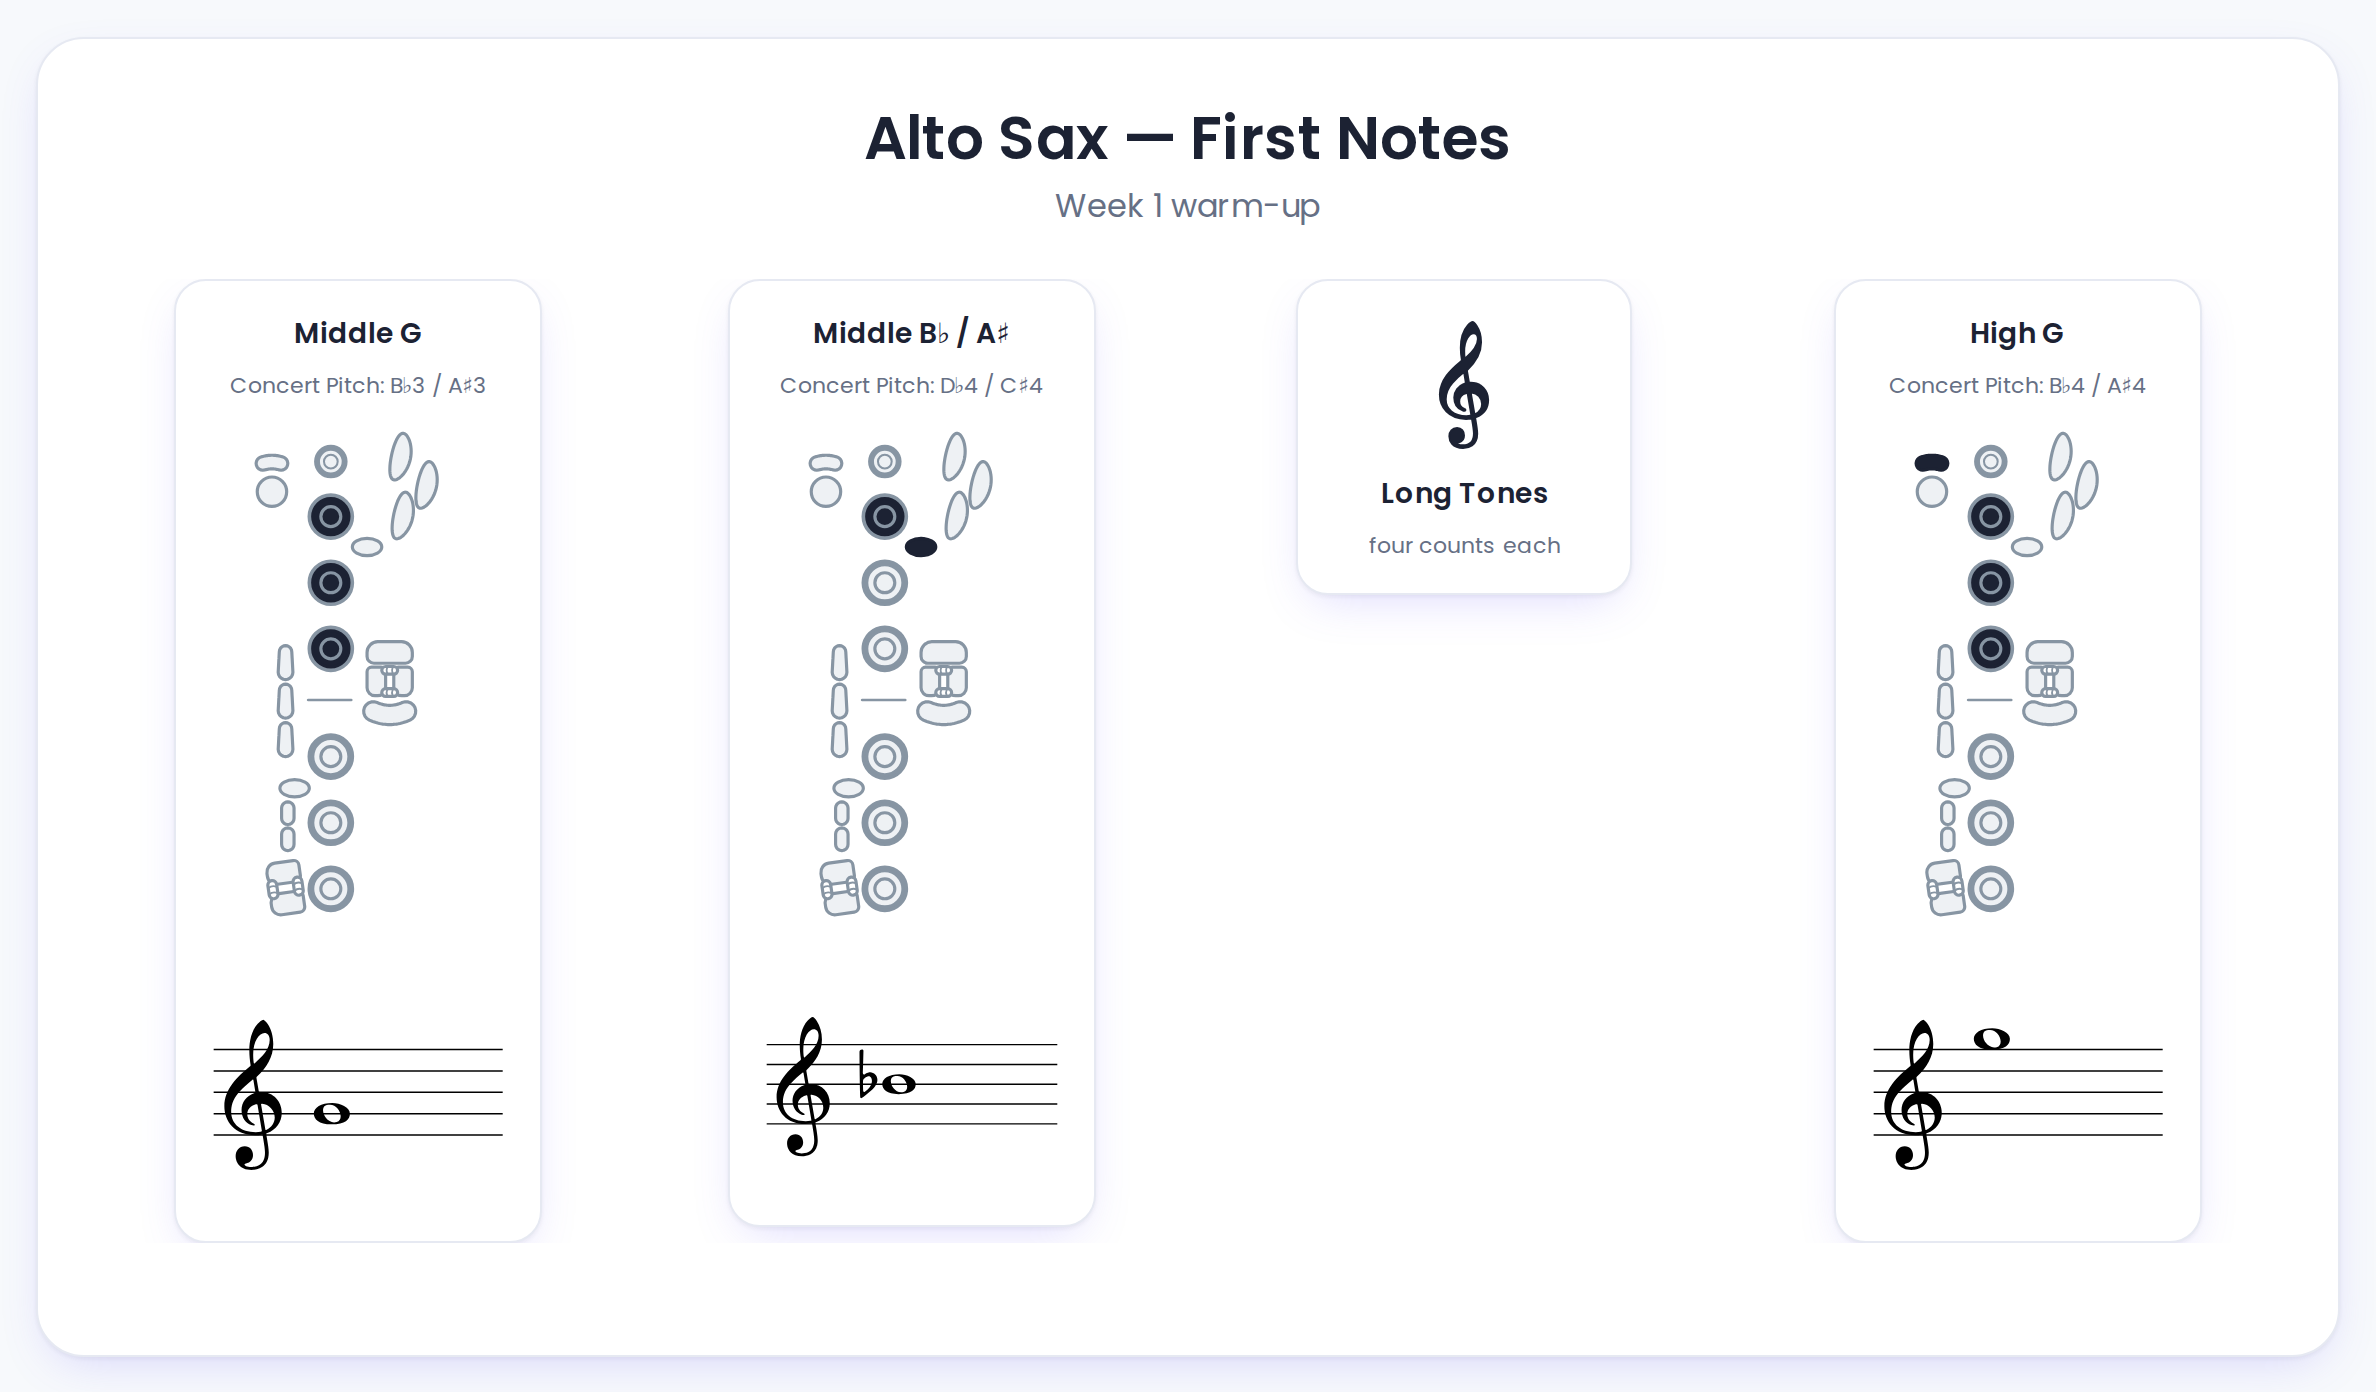
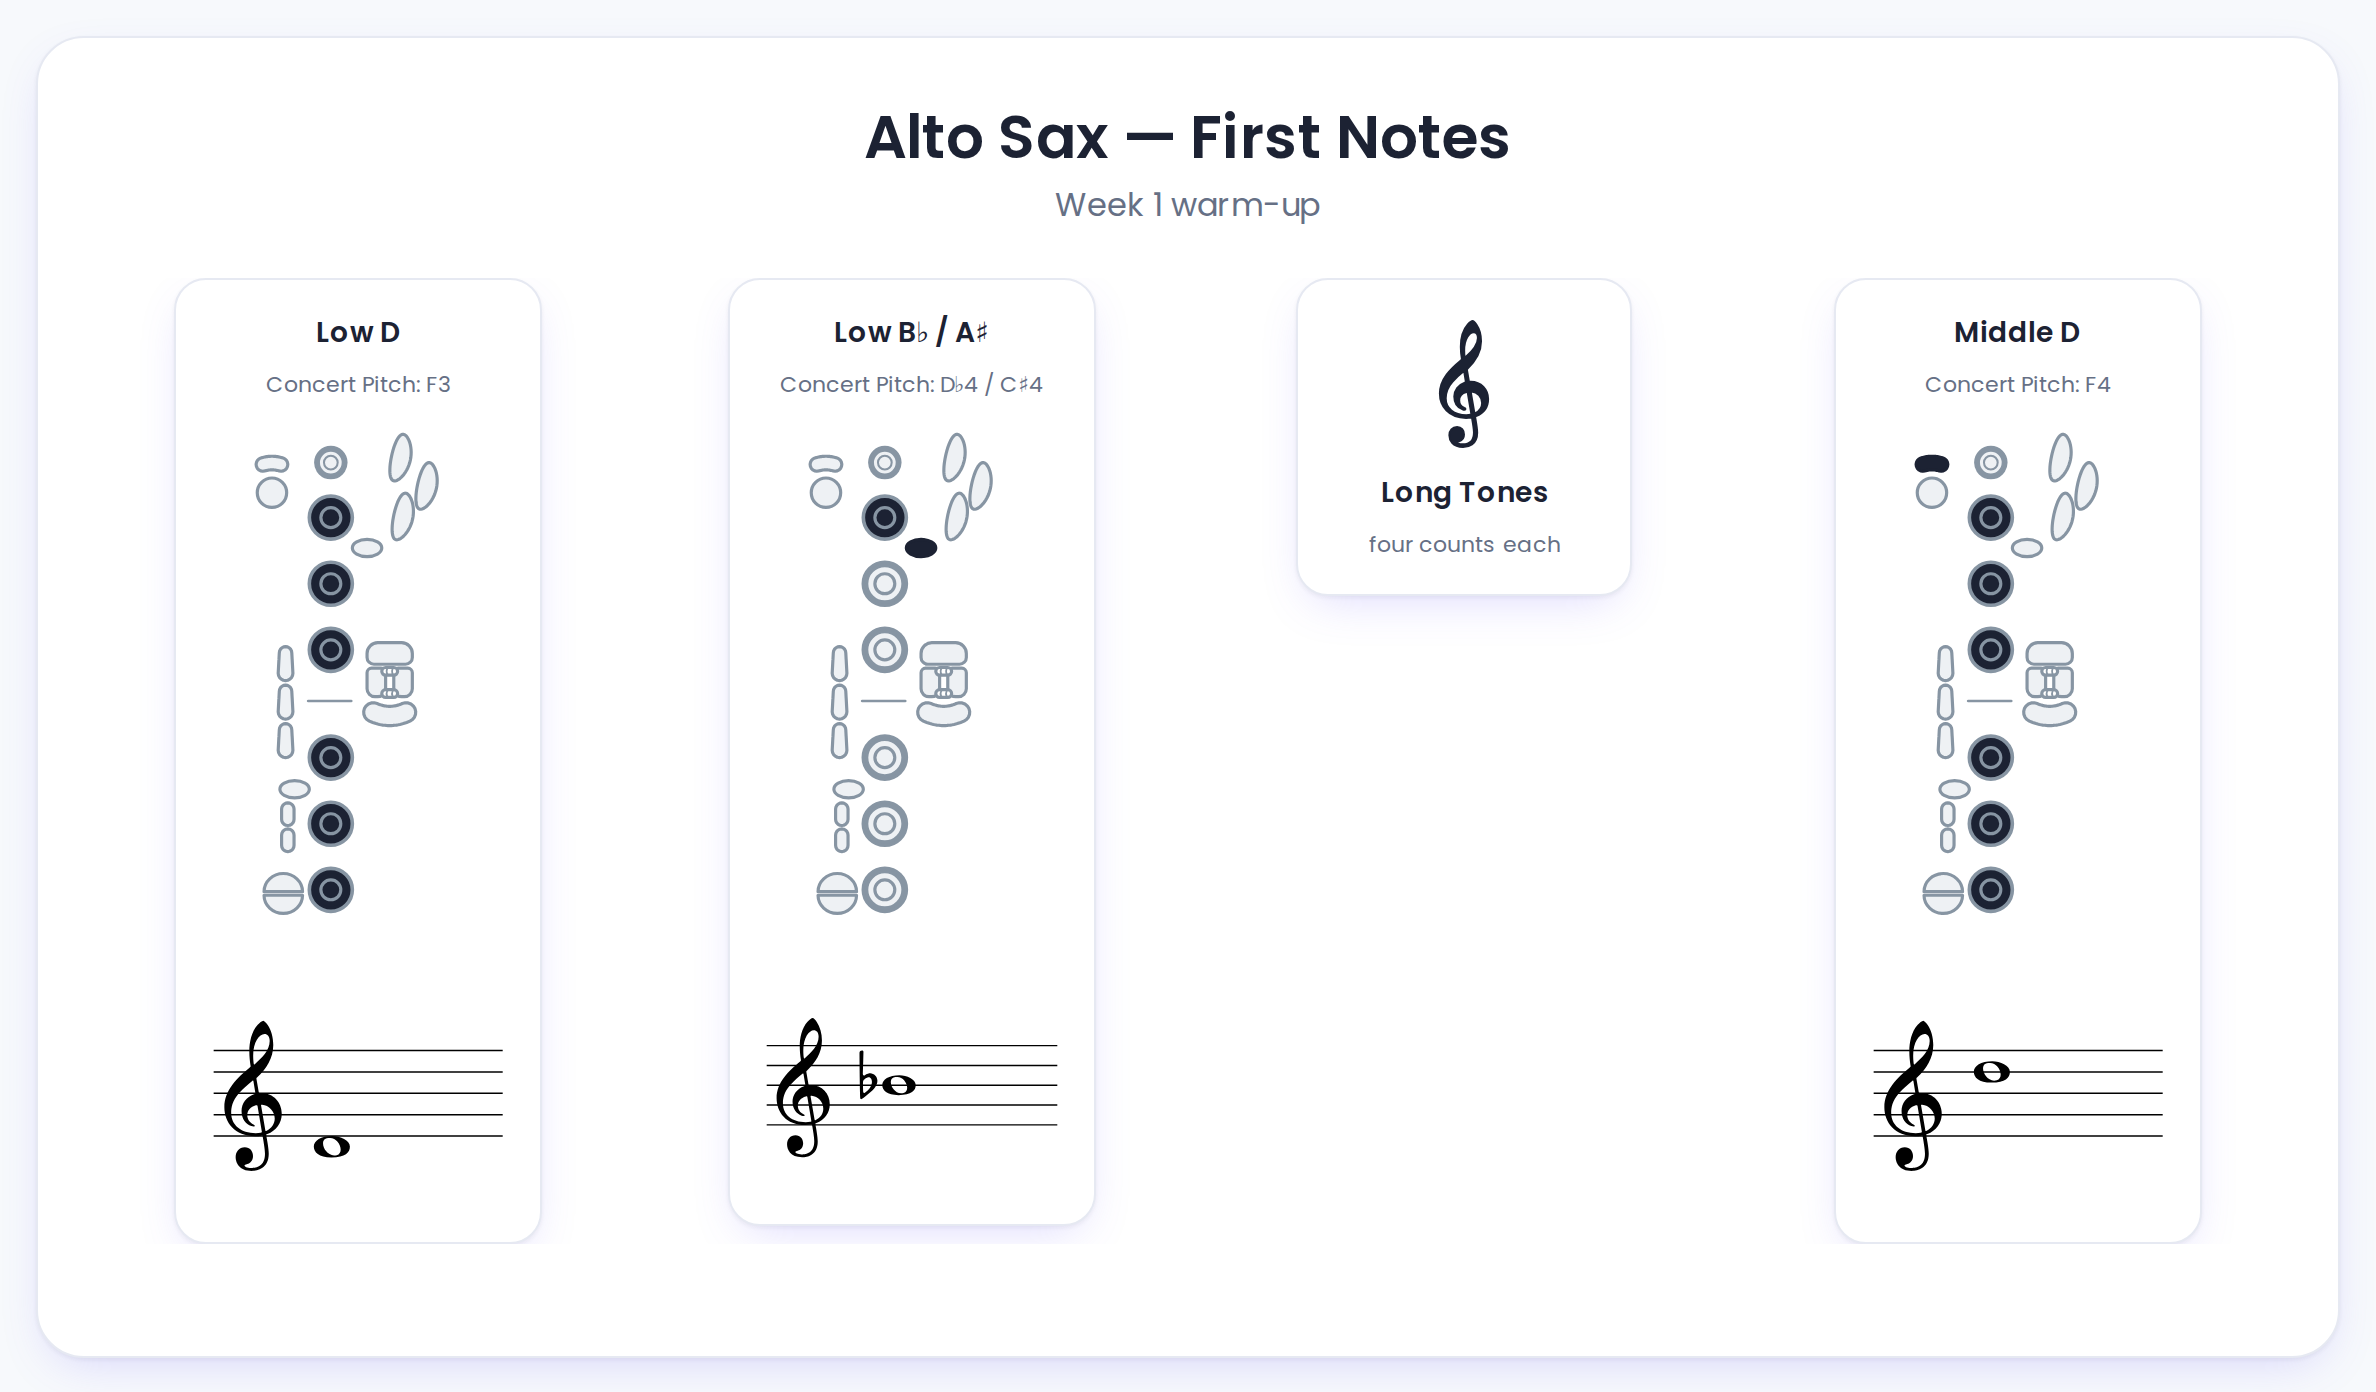
Recapture the README screenshot on the final UI
The first capture predated the octave-anchored registers and the
wildcard hint cleanup. This one shows Low D beside Middle D — the pair
that motivated the register rework, with the octave key visibly engaged
on the second diagram.

Claude-Session: https://claude.ai/code/session_01FDhLyH6CXkkuUdAtjhvzmY

diff --git a/README.md b/README.md
@@ -7,10 +7,10 @@ a staff, or both. Cards collect on a board that exports to PNG, PDF and JSON,
 and can play back the written note as instrument voice or piano at sounding
 pitch.
 
-![A ph-winds board titled "Alto Sax — First Notes", showing three alto
-saxophone fingering cards labelled Middle G, Middle B♭ / A♯ and High G — each
-with its concert pitch, a fingering diagram and the written note on a staff —
-alongside a text card reading "Long Tones".](docs/board-screenshot.png)
+![A ph-winds board titled "Alto Sax — First Notes", showing alto saxophone
+fingering cards headed Low D, Low B♭ / A♯ and Middle D — each with its
+concert pitch, a fingering diagram and the written note on a staff — beside
+a text card reading "Long Tones".](docs/board-screenshot.png)
 
 ## Stack
 
